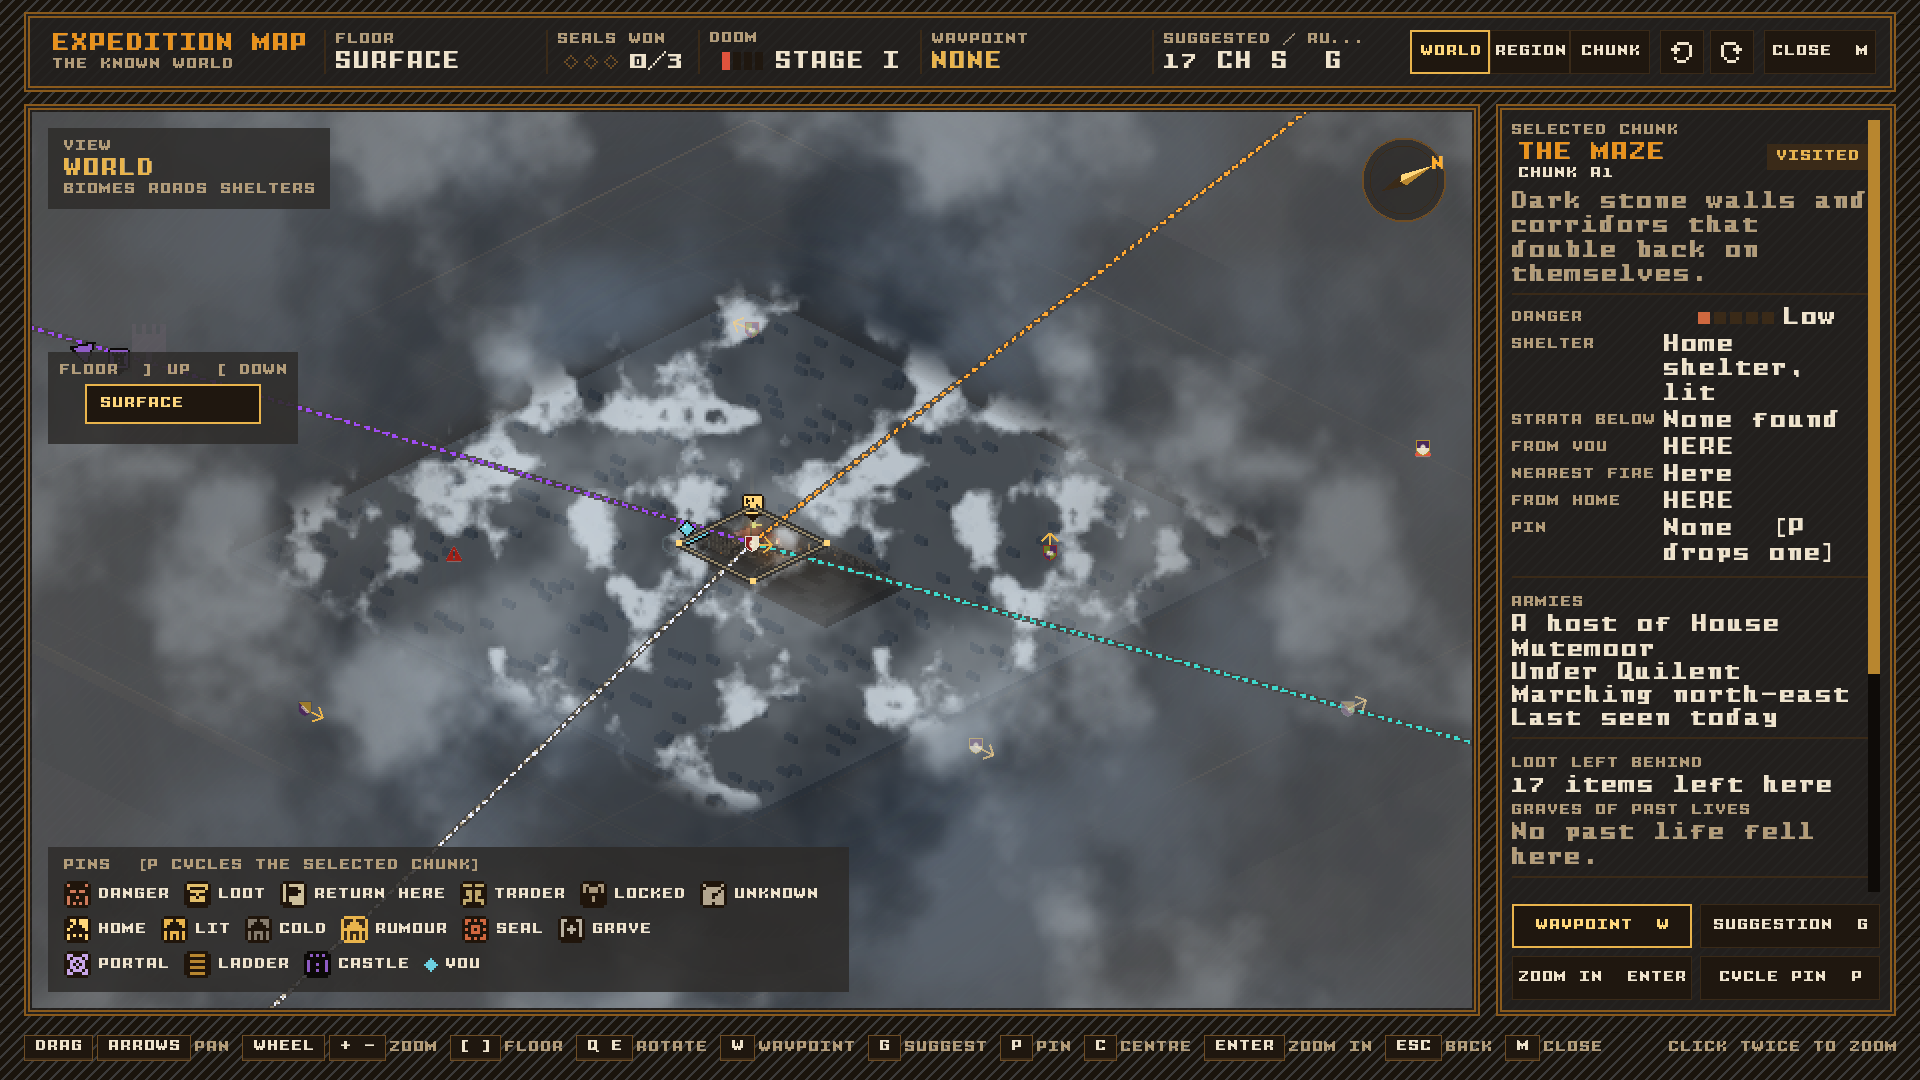
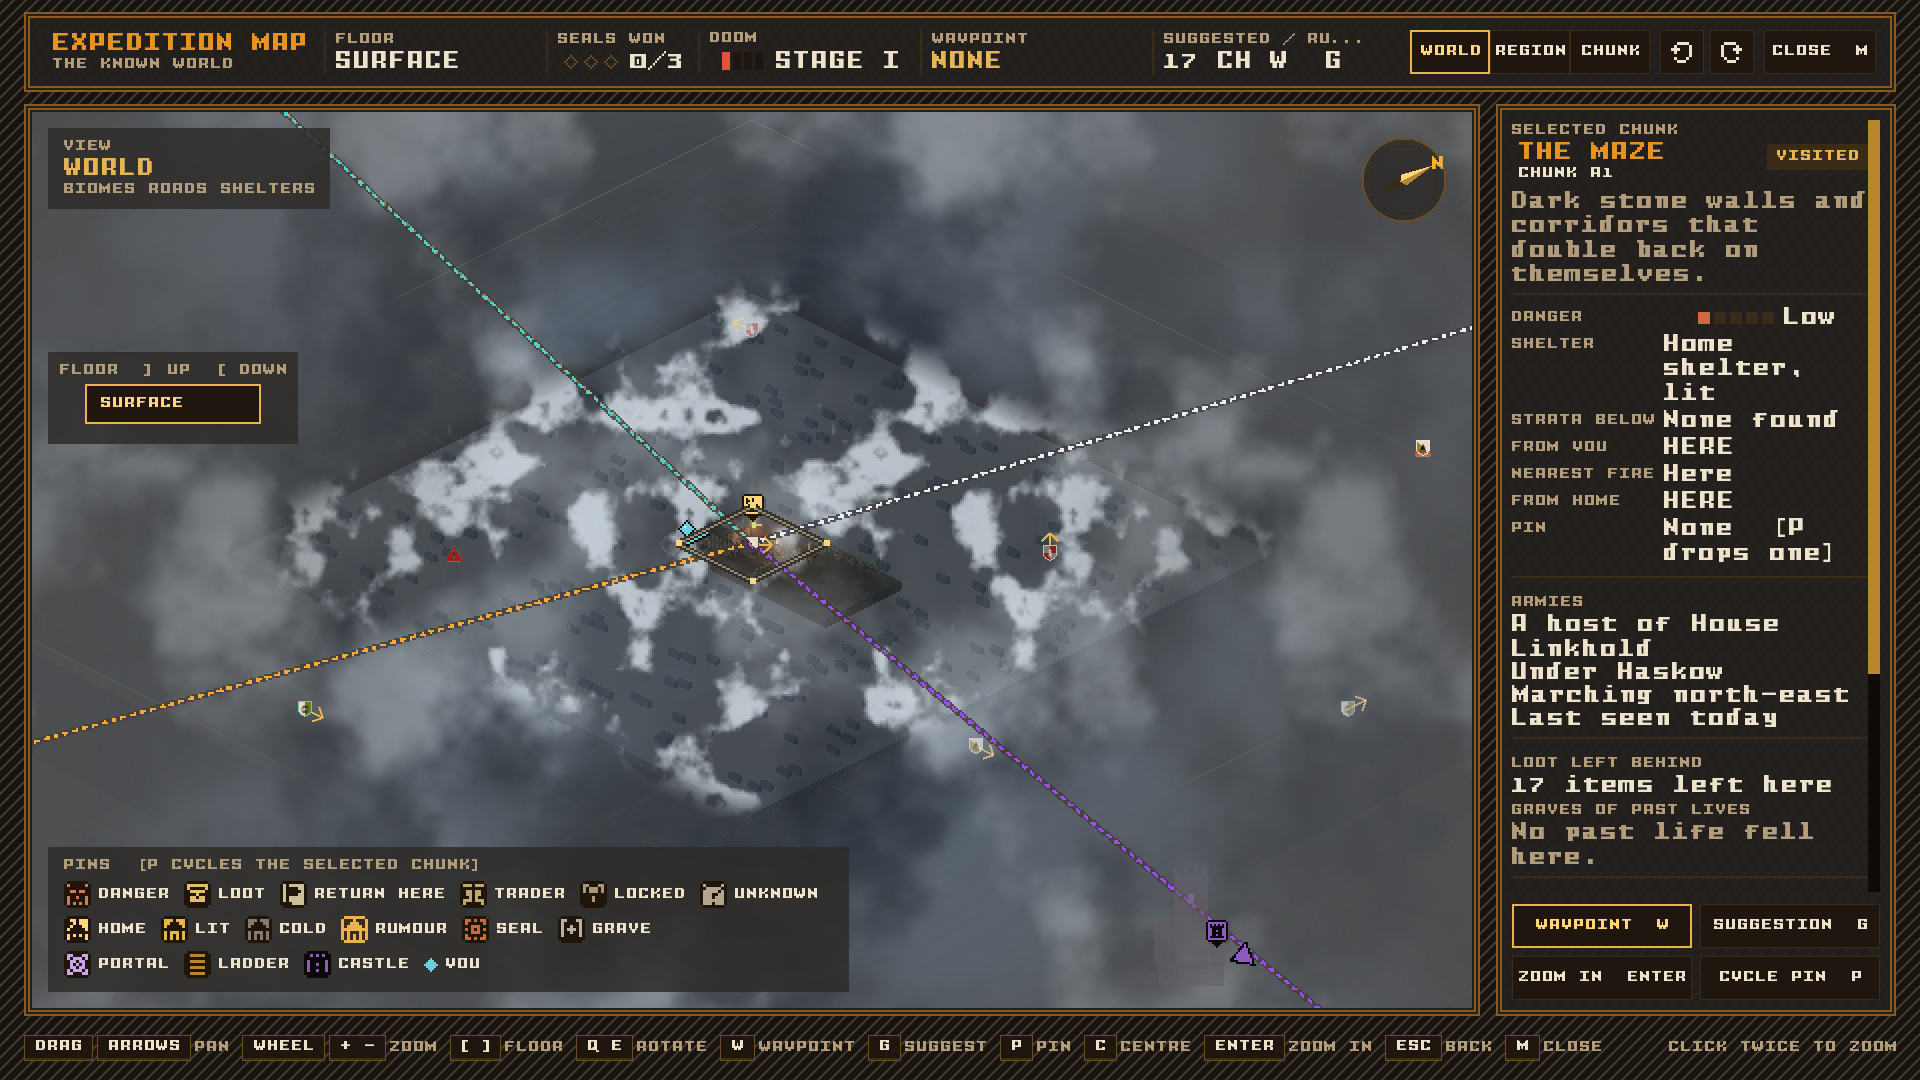
fix(war): what the review of army knowledge found
A sighting now only ages: word from the War Table or a town no longer replaces
it. The Table needs the Archive Lectern, unseen Hunting Parties leave no marker
from their tracks, and a heard battle is marked by region so its exact chunk is
never given away.

diff --git a/core/src/main/java/com/bpm/minotaur/gamedata/map/ArmyKnowledge.java b/core/src/main/java/com/bpm/minotaur/gamedata/map/ArmyKnowledge.java
@@ -107,8 +107,7 @@ public final class ArmyKnowledge {
         /** How strongly it is drawn: dimming with age, and fainter still if only said. */
         public float strength(long now) {
             if (exact()) return 1f;
-            float aged = Math.min(1f, Math.max(0L, now - observedAt) / (float) HistoryManager.SEASON_TURNS);
-            float s = 1f - aged * (1f - MIN_STRENGTH);
+            float s = aged(now - observedAt);
             return rumour() ? s * RUMOUR_STRENGTH : s;
         }
     }
@@ -126,6 +125,10 @@ public final class ArmyKnowledge {
             this.y = y;
             this.heardAt = heardAt;
         }
+
+        public float strength(long now) {
+            return aged(now - heardAt);
+        }
     }
 
     /** What a trail says, and the host it was left by. */
@@ -137,6 +140,11 @@ public final class ArmyKnowledge {
             this.marker = marker;
             this.ageTurns = ageTurns;
         }
+    }
+
+    private static float aged(long turns) {
+        float share = Math.min(1f, Math.max(0L, turns) / (float) HistoryManager.SEASON_TURNS);
+        return 1f - share * (1f - MIN_STRENGTH);
     }
 
     /** How far off an army can be and still be seen: this chunk, or the next. */
@@ -178,8 +186,8 @@ public final class ArmyKnowledge {
         for (ArmyBattle b : roster.battles) {
             int off = Math.max(Math.abs(b.x - px), Math.abs(b.y - py));
             if (off > WarSoundscape.EARSHOT || off == 0) continue;
-            int rx = px + Integer.signum(b.x - px) * off;
-            int ry = py + Integer.signum(b.y - py) * off;
+            int rx = region(b.x);
+            int ry = region(b.y);
             Sound was = sounds.put(b.id, new Sound(b.id, rx, ry, clock));
             if (was == null || was.x != rx || was.y != ry) changed = true;
         }
@@ -227,7 +235,8 @@ public final class ArmyKnowledge {
         Tracks best = null;
         int packed = WarRoster.packedChunk(x, y);
         for (Army a : roster.armies) {
-            if (a.soldiers <= 0) continue;
+            // Hunters show only when seen.
+            if (a.soldiers <= 0 || a.kind == Army.Kind.HUNTING_PARTY) continue;
             Tracks t = readTrail(a, a.trail, packed, x, y, clock, false);
             if (t == null) t = readTrail(a, a.trailLast, packed, x, y, clock, true);
             if (t != null && (best == null || t.ageTurns < best.ageTurns)) best = t;
@@ -265,12 +274,18 @@ public final class ArmyKnowledge {
         return intoSeason * (length - i) / length;
     }
 
-    /** Newer word replaces older; a captain once seen, and the road it has been on, stay known. */
+    /**
+     * Newer word replaces older, with two exceptions. Nothing said unseats what was seen or read from
+     * a trail: that stays, only ageing, until it is dropped (A47). A town's named place betters the
+     * War Table's region, however old. A captain once seen, and the road it has been on, stay known.
+     */
     private void learn(Marker m) {
         Marker was = markers.get(m.armyId);
-        if (was != null && was.observedAt > m.observedAt) return;
-        // Word of the same moment never unseats what was seen.
-        if (was != null && was.observedAt == m.observedAt && m.rumour() && !was.rumour()) return;
+        if (was != null) {
+            if (m.rumour() && !was.rumour()) return;
+            boolean townOverTable = m.source == Source.TOWN && was.source == Source.WAR_TABLE;
+            if (was.observedAt > m.observedAt && !townOverTable) return;
+        }
         int captain = m.captainId >= 0 ? m.captainId : was != null ? was.captainId : -1;
         int[] past = was == null ? new int[0] : was.past;
         if (was != null && !was.rumour() && !m.rumour() && (was.x != m.x || was.y != m.y)) past = appended(past, was.x, was.y);

diff --git a/core/src/main/java/com/bpm/minotaur/screens/GameScreen.java b/core/src/main/java/com/bpm/minotaur/screens/GameScreen.java
@@ -2343,7 +2343,7 @@ public class GameScreen extends BaseScreen {
         TownTalk talk = new TownTalk(worldManager.getHistory(), town, folk, worldManager.nearbyTowns(town.key),
                 com.bpm.minotaur.gamedata.history.DoctrineCatalog.getInstance(),
                 com.bpm.minotaur.gamedata.history.text.ChronicleGrammar.getInstance(), pack);
-        talk.setHostRumour(() -> townRumourOfAHost(town.key));
+        talk.setHostRumour(() -> townRumourOfAHost(town.key + folk.name));
         com.bpm.minotaur.gamedata.ShopkeeperNpc merchant = maze.getShopkeeper();
         Runnable trade = merchant == null ? null
                 : () -> eventManager.addEvent(new GameEvent(GameEvent.EventType.SHOPKEEPER_INTERACTION, merchant));
@@ -3241,13 +3241,13 @@ public class GameScreen extends BaseScreen {
     }
 
     /** A townsperson's word of a host, while a war runs (Living War A49); it goes on the map as a rumour. */
-    private String townRumourOfAHost(String townKey) {
+    private String townRumourOfAHost(String teller) {
         if (worldManager.currentFronts().isEmpty()) return null;
         com.bpm.minotaur.managers.HistoryManager history = worldManager.getHistory();
         com.bpm.minotaur.gamedata.map.MapKnowledge knowledge = com.bpm.minotaur.gamedata.map.MapKnowledge.getInstance();
         long clock = history.warClock();
         com.bpm.minotaur.gamedata.map.ArmyKnowledge.Marker said = knowledge.getArmies().hearInTown(history.roster(), clock,
-                townKey.hashCode() + (int) (clock / com.bpm.minotaur.managers.HistoryManager.SLEEP_TURNS));
+                teller.hashCode() + (int) (clock / com.bpm.minotaur.managers.HistoryManager.SLEEP_TURNS));
         if (said == null) return null;
         knowledge.saveArmies();
         GridPoint2 here = worldManager.getCurrentPlayerChunkId();
@@ -5572,8 +5572,10 @@ public class GameScreen extends BaseScreen {
             java.util.List<com.bpm.minotaur.gamedata.history.HistoryEvent> news = worldManager.getHistory().onSleep();
             worldManager.sleepThroughWar();
             // The War Table has fresh word of the hosts by morning (Living War A49).
-            com.bpm.minotaur.gamedata.map.MapKnowledge.getInstance().getArmies().hearWarTable(worldManager.getHistory().roster(), worldManager.getHistory().warClock());
-            com.bpm.minotaur.gamedata.map.MapKnowledge.getInstance().saveArmies();
+            if (com.bpm.minotaur.gamedata.progression.ShelterAltar.getInstance().hasStation(com.bpm.minotaur.gamedata.progression.ShelterAltar.Station.ARCHIVE_LECTERN)) {
+                com.bpm.minotaur.gamedata.map.MapKnowledge.getInstance().getArmies().hearWarTable(worldManager.getHistory().roster(), worldManager.getHistory().warClock());
+                com.bpm.minotaur.gamedata.map.MapKnowledge.getInstance().saveArmies();
+            }
             // This shelter is now the one the player wakes in.
             if (currentLevel() == 1) {
                 com.bpm.minotaur.gamedata.shelter.ShelterNetwork.getInstance()

diff --git a/core/src/main/java/com/bpm/minotaur/screens/map/MapSurface.java b/core/src/main/java/com/bpm/minotaur/screens/map/MapSurface.java
@@ -112,7 +112,7 @@ final class MapSurface extends Widget implements Disposable {
      * for its heading, and the road it is known to have taken, shown when its chunk is selected.
      */
     static final class ArmyMark {
-        enum Kind { HOST, RUMOUR, EXACT, SIEGE, SOUND }
+        enum Kind { HOST, SIEGE, SOUND }
 
         final Kind kind;
         final GridPoint2 at;
@@ -237,11 +237,11 @@ final class MapSurface extends Widget implements Disposable {
         pinIcons.put(MapKnowledge.Pin.UNKNOWN, "pin_unknown");
     }
 
-    /** The wars being fought on the surface right now (Houses of the Maze plan T2.2). */
     void setArmyMarks(List<ArmyMark> marks) {
         this.armyMarks = marks;
     }
 
+    /** The wars being fought on the surface right now (Houses of the Maze plan T2.2). */
     void setWarSigns(List<WarSign> signs) {
         this.warSigns = signs == null ? java.util.Collections.emptyList() : signs;
     }
@@ -892,10 +892,11 @@ final class MapSurface extends Widget implements Disposable {
                 Vector2 toward = onMap(m.at.x + 0.5f + m.dx, m.at.y + 0.5f + m.dy).sub(p).nor();
                 float reach = UiTheme.MAP_ARMY_ARROW;
                 float tipX = p.x + toward.x * reach, tipY = p.y + toward.y * reach;
-                line(batch, UiTheme.GOLD, m.strength, p.x, p.y, tipX, tipY, 2f);
-                float wing = reach * 0.4f;
-                line(batch, UiTheme.GOLD, m.strength, tipX, tipY, tipX - (toward.x - toward.y) * wing, tipY - (toward.y + toward.x) * wing, 2f);
-                line(batch, UiTheme.GOLD, m.strength, tipX, tipY, tipX - (toward.x + toward.y) * wing, tipY - (toward.y - toward.x) * wing, 2f);
+                float t = UiTheme.MAP_ARMY_LINE;
+                line(batch, UiTheme.GOLD, m.strength, p.x, p.y, tipX, tipY, t);
+                float wing = UiTheme.MAP_ARMY_ARROW_WING;
+                line(batch, UiTheme.GOLD, m.strength, tipX, tipY, tipX - (toward.x - toward.y) * wing, tipY - (toward.y + toward.x) * wing, t);
+                line(batch, UiTheme.GOLD, m.strength, tipX, tipY, tipX - (toward.x + toward.y) * wing, tipY - (toward.y - toward.x) * wing, t);
             }
             if (m.shield != null) {
                 float high = m.shield.getRegionHeight();
@@ -911,7 +912,7 @@ final class MapSurface extends Widget implements Disposable {
         Vector2 from = onMap(m.road[0] + 0.5f, m.road[1] + 0.5f);
         for (int i = 2; i <= m.road.length; i += 2) {
             Vector2 to = i == m.road.length ? onMap(m.at.x + 0.5f, m.at.y + 0.5f) : onMap(m.road[i] + 0.5f, m.road[i + 1] + 0.5f);
-            line(batch, UiTheme.GOLD, m.strength * UiTheme.MAP_GHOST_ALPHA, from.x, from.y, to.x, to.y, 2f);
+            line(batch, UiTheme.GOLD, m.strength * UiTheme.MAP_GHOST_ALPHA, from.x, from.y, to.x, to.y, UiTheme.MAP_ARMY_LINE);
             from = to;
         }
     }

diff --git a/core/src/test/java/com/bpm/minotaur/gamedata/map/ArmyKnowledgeTest.java b/core/src/test/java/com/bpm/minotaur/gamedata/map/ArmyKnowledgeTest.java
@@ -144,6 +144,45 @@ public class ArmyKnowledgeTest {
         assertTrue(markers(500).isEmpty());
     }
 
+    /** A47: a sighting only ages. A sleep beside the Table does not turn it back into a rumour. */
+    @Test
+    public void wordOfAHostDoesNotUnseatASighting() {
+        Army a = army(1, HOUSE, 21, 30, 15);
+        known.onTurn(roster, 21, 30, 500);
+        a.x = 60;
+        long later = 500 + HistoryManager.SLEEP_TURNS;
+        known.hearWarTable(roster, later);
+        known.hearInTown(roster, later, 0);
+        ArmyKnowledge.Marker m = only(later);
+        assertEquals(ArmyKnowledge.Source.SIGHTED, m.source);
+        assertEquals(21, m.x);
+        assertEquals(1, m.sleepsAgo(later));
+        long dropped = 500 + HistoryManager.SEASON_TURNS;
+        known.hearWarTable(roster, dropped);
+        assertEquals("once it is dropped, word may stand", ArmyKnowledge.Source.WAR_TABLE, only(dropped).source);
+    }
+
+    @Test
+    public void aTownsNamedPlaceBettersTheTablesRegionEvenIfOlder() {
+        Army a = army(1, HOUSE, 21, 30, 15);
+        a.trail = new int[]{WarRoster.packedChunk(19, 30)};
+        long clock = HistoryManager.SEASON_TURNS * 4 + 300;
+        known.hearWarTable(roster, clock);
+        known.hearInTown(roster, clock, 0);
+        assertEquals(ArmyKnowledge.Source.TOWN, only(clock).source);
+        assertEquals(19, only(clock).x);
+    }
+
+    /** #328: a Hunting Party shows on the map only when seen. */
+    @Test
+    public void huntersLeaveNoWordInTheirTracks() {
+        Army a = army(1, HOUSE, 8, 8, 5);
+        a.kind = Army.Kind.HUNTING_PARTY;
+        a.trail = new int[]{WarRoster.packedChunk(5, 5)};
+        assertNull(known.readTracks(roster, 5, 5, 700));
+        assertTrue(markers(700).isEmpty());
+    }
+
     @Test
     public void aFresherSightingReplacesARumourAndARumourOfTheSameMomentDoesNot() {
         army(1, HOUSE, 21, 30, 15);
@@ -230,8 +269,8 @@ public class ArmyKnowledgeTest {
         assertTrue(known.onTurn(roster, 10, 10, 100));
         List<ArmyKnowledge.Sound> heard = known.sounds(100);
         assertEquals(1, heard.size());
-        assertEquals("the way it lies, at the distance it lies", 14, heard.get(0).x);
-        assertEquals(14, heard.get(0).y);
+        assertEquals("its region, not its chunk", 14, heard.get(0).x);
+        assertEquals(10, heard.get(0).y);
         assertFalse("still the same news", known.onTurn(roster, 10, 10, 101));
         assertTrue(known.sounds(100 + HistoryManager.SEASON_TURNS + 1).isEmpty());
     }

diff --git a/core/src/main/java/com/bpm/minotaur/screens/map/ExpeditionMapScreen.java b/core/src/main/java/com/bpm/minotaur/screens/map/ExpeditionMapScreen.java
@@ -195,14 +195,12 @@ public class ExpeditionMapScreen extends BaseScreen {
         knownSounds = known.sounds(clock);
         if (arms == null) arms = new com.bpm.minotaur.ui.ArmsAtlas(history.world(), DoctrineCatalog.getInstance());
         for (com.bpm.minotaur.gamedata.map.ArmyKnowledge.Marker m : knownArmies) {
-            MapSurface.ArmyMark.Kind kind = m.source == com.bpm.minotaur.gamedata.map.ArmyKnowledge.Source.SIEGE ? MapSurface.ArmyMark.Kind.SIEGE
-                    : m.exact() ? MapSurface.ArmyMark.Kind.EXACT : m.rumour() ? MapSurface.ArmyMark.Kind.RUMOUR : MapSurface.ArmyMark.Kind.HOST;
+            MapSurface.ArmyMark.Kind kind = m.source == com.bpm.minotaur.gamedata.map.ArmyKnowledge.Source.SIEGE ? MapSurface.ArmyMark.Kind.SIEGE : MapSurface.ArmyMark.Kind.HOST;
             marks.add(new MapSurface.ArmyMark(kind, new GridPoint2(m.x, m.y), arms.shield(m.houseId, (int) UiTheme.MAP_ARMY_MARKER),
                     m.dx, m.dy, m.strength(clock), m.past));
         }
         for (com.bpm.minotaur.gamedata.map.ArmyKnowledge.Sound s : knownSounds) {
-            float faded = 1f - Math.min(1f, (clock - s.heardAt) / (float) com.bpm.minotaur.managers.HistoryManager.SEASON_TURNS) * (1f - UiTheme.MAP_GHOST_ALPHA);
-            marks.add(new MapSurface.ArmyMark(MapSurface.ArmyMark.Kind.SOUND, new GridPoint2(s.x, s.y), null, 0, 0, faded, new int[0]));
+            marks.add(new MapSurface.ArmyMark(MapSurface.ArmyMark.Kind.SOUND, new GridPoint2(s.x, s.y), null, 0, 0, s.strength(clock), new int[0]));
         }
         return marks;
     }

diff --git a/core/src/main/java/com/bpm/minotaur/ui/UiTheme.java b/core/src/main/java/com/bpm/minotaur/ui/UiTheme.java
@@ -165,6 +165,8 @@ public final class UiTheme {
     /** An army's shield on the map (Living War A46), its heading arrow's reach, and the mark of a battle only heard. */
     public static final float MAP_ARMY_MARKER = 14f;
     public static final float MAP_ARMY_ARROW = 20f;
+    public static final float MAP_ARMY_ARROW_WING = 8f;
+    public static final float MAP_ARMY_LINE = 2f;
     public static final float MAP_ARMY_SOUND = 24f;
     /** Thickness of the border a front carries in the defending house's colour, and of the minimap's war rim. */
     public static final float FRONT_RIM = 3f;
